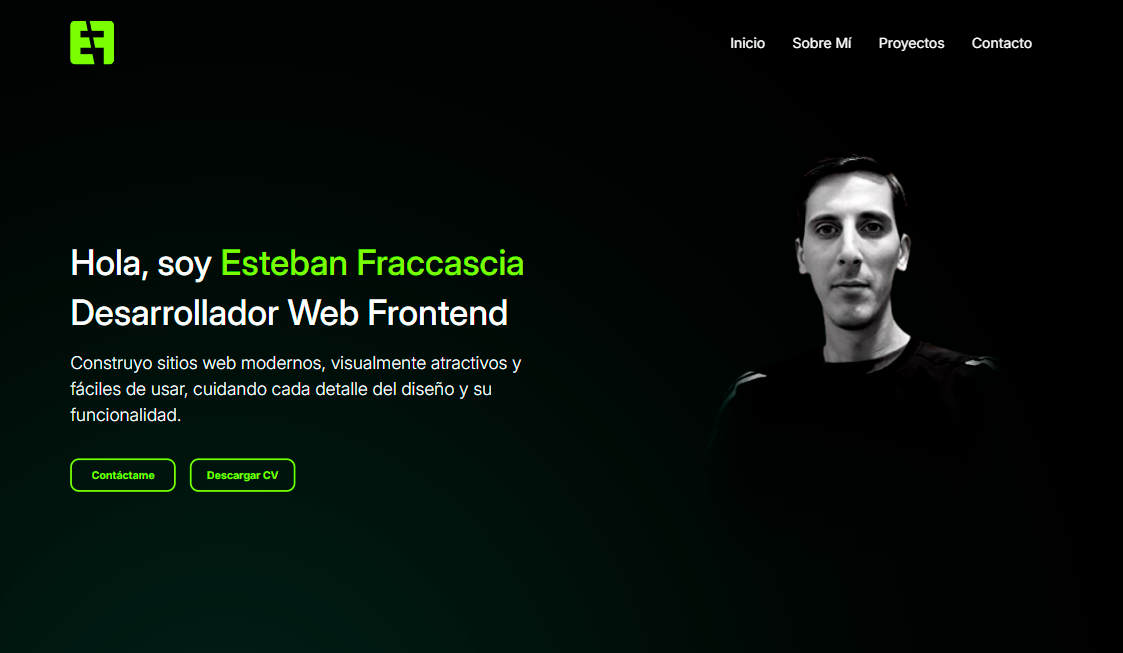
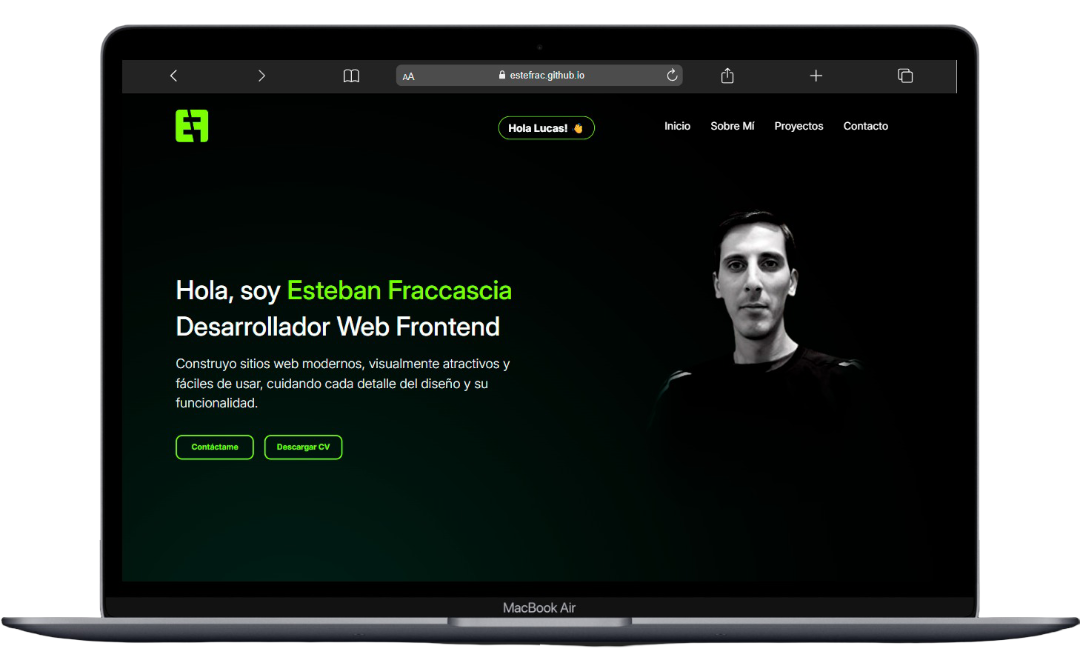
cargamos mockup portfolio en el readme

diff --git a/README.md b/README.md
@@ -2,6 +2,8 @@
 
 Este proyecto es una evolución de un portfolio web originalmente desarrollado con **HTML** y **CSS**, al que se le han incorporado funcionalidades dinámicas utilizando **JavaScript** para cumplir con los requisitos de la segunda entrega del curso de JavaScript.
 
+![Captura del sitio web](assets/screenshot.png)
+
 ---
 
 ## 🚀 Funcionalidades Implementadas
